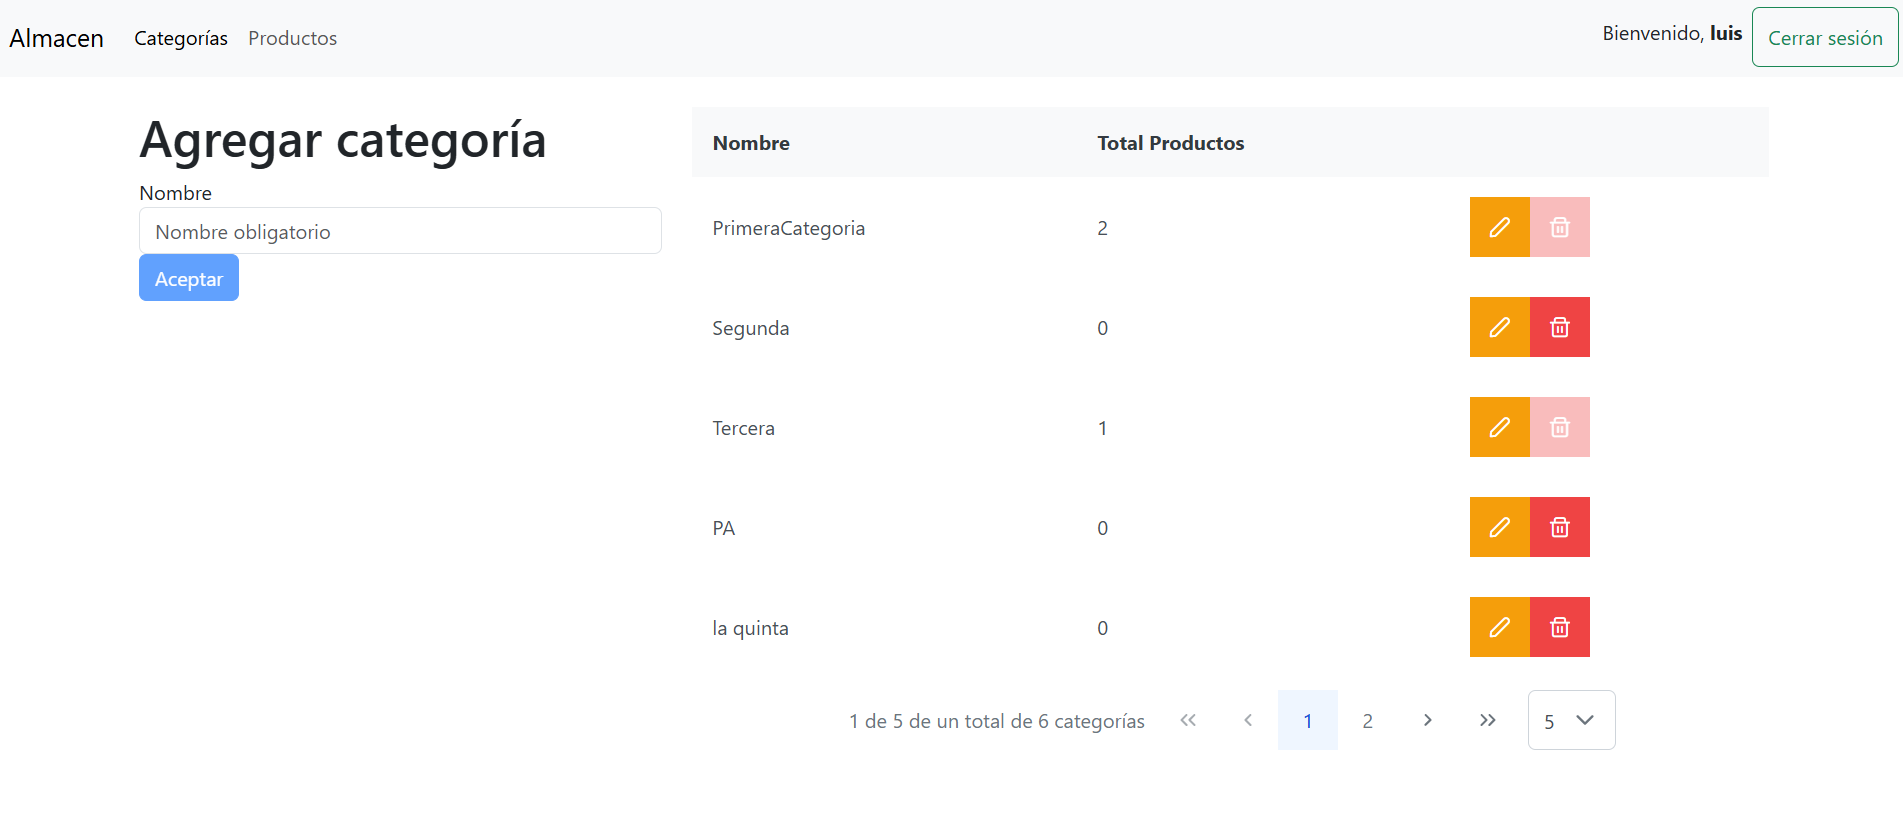
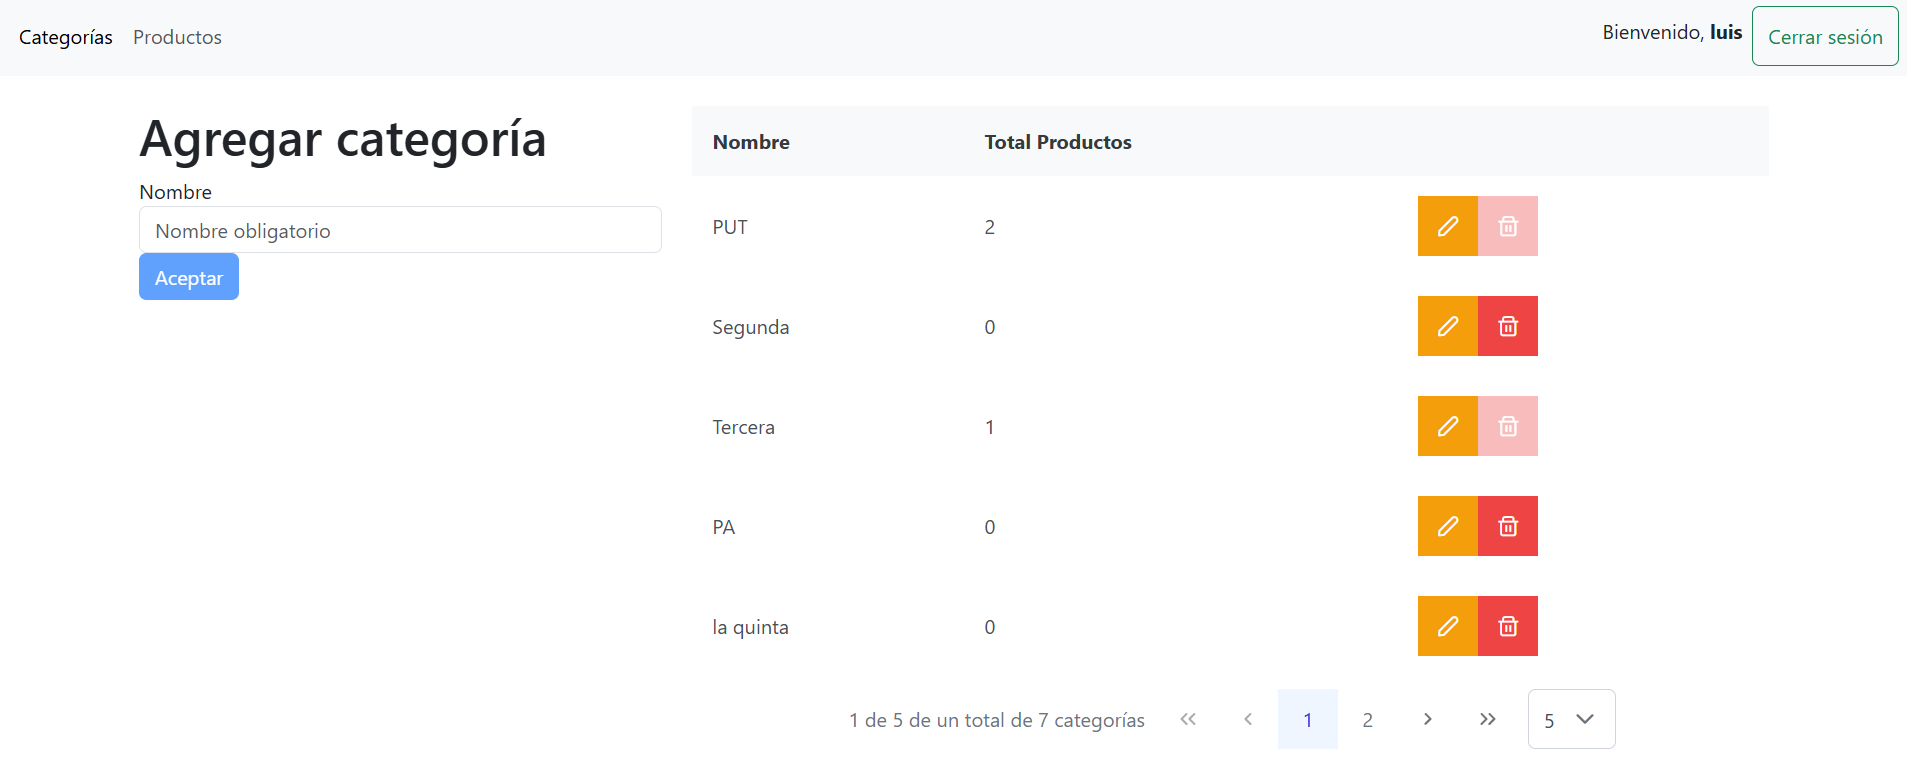
27.02.2025_FINAL

diff --git a/src/app/almacen/productos/productos.component.html b/src/app/almacen/productos/productos.component.html
@@ -4,20 +4,20 @@
       <h1>Agregar producto</h1>
       <form #formulario="ngForm" (submit)="guardar()">
         <div class="form-group">
-          <label for="descripcion">Nombre</label>
+          <label for="nombre">Nombre</label>
           <input
             type="text"
             class="form-control"
-            name="descripcion"
+            name="nombre"
             [(ngModel)]="producto.nombreProducto"
             required
-            id="descripcion"
-            #descripcion="ngModel"
+            id="nombre"
+            #nombre="ngModel"
             placeholder="Nombre obligatoria"
           />
           <span
             class="form-text text-danger"
-            *ngIf="!descripcion.valid && descripcion.touched"
+            *ngIf="!nombre.valid && nombre.touched"
           >
             Nombre obligatorio
           </span>

diff --git a/src/app/almacen/categorias/categorias.component.ts b/src/app/almacen/categorias/categorias.component.ts
@@ -49,9 +49,8 @@ export class CategoriasComponent implements OnInit {
           this.getCategorias();
         },
         error: (err) => {
-          // console.log(err);
-          // this.visibleError = true;
-          // this.mensajeError = 'Se ha producido un error';
+          console.log(err);
+          this.visibleError = true;
           this.controlarError(err);
         }
       });
@@ -64,8 +63,7 @@ export class CategoriasComponent implements OnInit {
           this.getCategorias();
         },
         error: (err) => {
-          // this.visibleError = true;
-          //   this.mensajeError = 'Se ha producido un error';
+          this.visibleError = true;
           this.controlarError(err);
         }
       });

diff --git a/src/app/almacen/productos/productos.component.ts b/src/app/almacen/productos/productos.component.ts
@@ -123,7 +123,7 @@ export class ProductosComponent implements OnInit {
       message: `Eliminar el producto ${producto.nombreProducto}?`,
       header: 'Estás seguro?',
       icon: 'pi pi-exclamation-triangle',
-      acceptLabel: 'Sí´',
+      acceptLabel: 'Sí',
       acceptButtonStyleClass: 'p-button-danger',
       accept: () => this.deleteProducto(producto.idProducto)
     });
@@ -151,7 +151,7 @@ export class ProductosComponent implements OnInit {
   }
 
   extraerNombreImagen(url: string): string {
-    return url.split('/').pop() || ''; 
+    return url.split('/').pop() || '';
   }
 
   cancelarEdicion() {

diff --git a/src/app/shared/navbar/navbar.component.html b/src/app/shared/navbar/navbar.component.html
@@ -1,6 +1,5 @@
 <nav class="navbar navbar-expand-lg navbar-light bg-light">
   <div class="container-fluid">
-    <a class="navbar-brand" routerLink="categorias">Almacen</a>
     <button class="navbar-toggler" type="button" data-bs-toggle="collapse" data-bs-target="#navbarSupportedContent"
       aria-controls="navbarSupportedContent" aria-expanded="false" aria-label="Toggle navigation">
       <span class="navbar-toggler-icon"></span>

diff --git a/src/app/inicio/login/login.component.ts b/src/app/inicio/login/login.component.ts
@@ -1,7 +1,7 @@
 import { Component, OnInit } from '@angular/core';
 import { Router } from '@angular/router';
 import { MessageService } from 'primeng/api';
-import { ILogin, ILoginResponse } from 'src/app/interfaces/login.interface';
+import { ILogin} from 'src/app/interfaces/login.interface';
 import { AppService } from 'src/app/services/app.service';
 import { AuthGuard } from 'src/app/guards/auth-guard.service';
 

diff --git a/src/app/inicio/login/login.component.html b/src/app/inicio/login/login.component.html
@@ -16,7 +16,7 @@
     <button class="btn btn-primary" type="submit" [hidden]="!fLogin.valid">Login</button>
     <button class="btn btn-primary" type="submit" [hidden]="fLogin.valid" [disabled]="!fLogin.valid"
       style="cursor:not-allowed">Login</button>
-    <p class="mt-5 mb-3 text-muted">Curso Angular 2024</p>
+    <p class="mt-5 mb-3 text-muted">LuismNet 2025</p>
   </form>
   <p-toast></p-toast>
 </div>

diff --git a/src/app/app.module.ts b/src/app/app.module.ts
@@ -17,7 +17,6 @@ import { InicioModule } from './inicio/inicio.module';
     BrowserModule,
     AppRoutingModule,BrowserAnimationsModule, HttpClientModule,InicioModule,FormsModule
   ],
-  // providers: [],
   bootstrap: [AppComponent]
 })
 export class AppModule { }

diff --git a/src/app/shared/navbar/navbar.component.ts b/src/app/shared/navbar/navbar.component.ts
@@ -16,7 +16,7 @@ export class NavbarComponent {
   }
 
   cerrarSesion() {
-    localStorage.removeItem('usuario');
+    sessionStorage.removeItem('usuario');
     this.router.navigateByUrl('/login');
   }
 

diff --git a/README.md b/README.md
@@ -1,8 +1,15 @@
-## Almacen
+## AngularAlmacen
 This project was generated with [Angular CLI](https://github.com/angular/angular-cli) version 16.2.14.
 
 ![AngularAlmacen](img/1.png)
 ![AngularAlmacen](img/2.png)
+
+
+## environment
+
+```
+export const environment = {urlAPI: 'https://localhost:7044/api/'};
+```
 
 ## Development server
 
